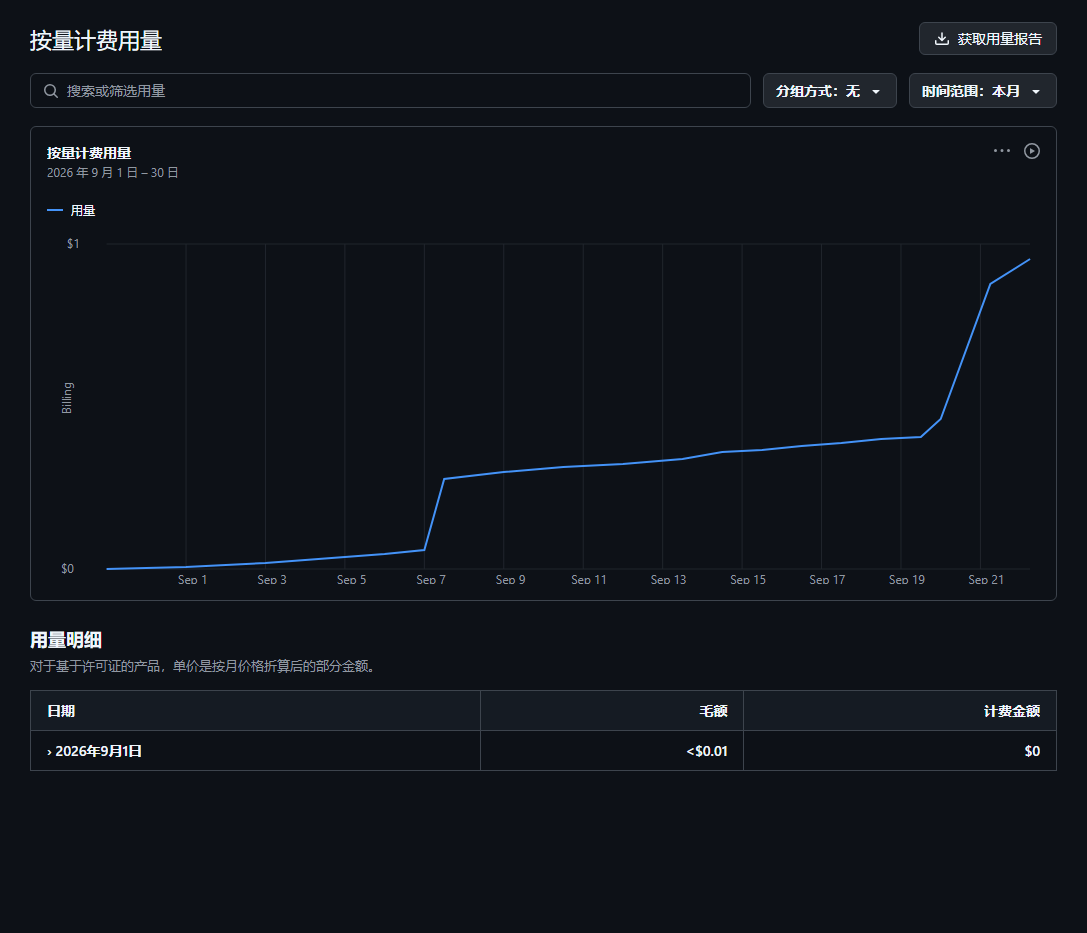
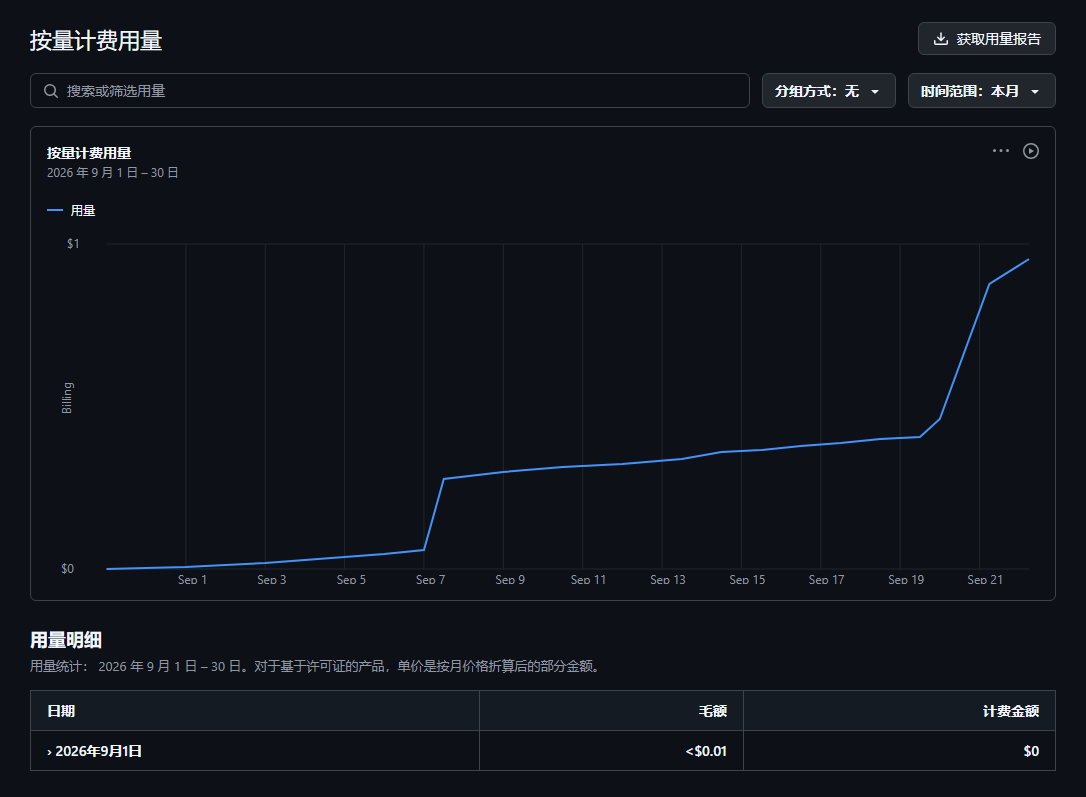
fix(dict): 收「Usage for」片段键，用量明细说明句不再半英半中
- 实机（截图）把说明句拆成「Usage for 」＋账期区间＋「For license-based products…」三段，整句键永不命中，故前缀片段必须单独收
- 译文用冒号收尾：中文里「用量统计：2026 年 9 月 1 日 – 30 日。」比保留尾随空格衔接更清楚（尾随空格会被 normalizeKey 折叠）
- 用例：新增 renderNodes 断言，锁住三段拼接后的整句渲染
- 文档：替换用量页对照图（说明句已是全中文）

diff --git a/src/content/__tests__/settings-billing.test.ts b/src/content/__tests__/settings-billing.test.ts
@@ -441,7 +441,9 @@ const USAGE_NODES: readonly string[] = [
 	//    静态词条「Metered usage」与 usage-range-same-month-* 规则覆盖，此处不重复列）——
 	"Usage",
 	// —— 用量明细区块 ——
+	// 说明句在实机里是三段：标签片段 + 账期区间 + 产品说明句（见下方 renderNodes 用例）
 	"Usage breakdown",
+	"Usage for",
 	"For license-based products, the price/unit is a prorated portion of the monthly price.",
 	"Date",
 	"Gross amount",
@@ -531,6 +533,27 @@ describe("用量页的实机节点边界", () => {
 				`不应被翻译：${JSON.stringify(raw)}`,
 			).toBeNull();
 		}
+	});
+
+	it("renders the usage breakdown blurb split around its date range", () => {
+		// 实机边界（截图实证）：说明句是「Usage for 」＋账期区间＋「For license-based
+		// products…」三段，整句键永不命中。片段键与区间规则都命中，整句才通顺
+		expect(
+			renderNodes([
+				"Usage for ",
+				"Sep 1 - Sep 30, 2026",
+				" ",
+				"For license-based products, the price/unit is a prorated portion of the monthly price.",
+			]),
+		).toBe(
+			// 实机节点自带尾随空格（「Usage for 」），walker 会把它保留在译文之后，
+			// 故这里如实写出那个空格；渲染结果读作「用量统计： 2026 年 9 月 1 日 – 30 日」
+			"用量统计： 2026 年 9 月 1 日 – 30 日 对于基于许可证的产品，单价是按月价格折算后的部分金额。",
+		);
+		// 标签片段去掉尾随空格也要命中（normalizeKey 折叠空白，实机形态可能两种都有）
+		expect(translateText("Usage for", usageView)).toBe(
+			"用量统计：",
+		);
 	});
 
 	it("keeps the Cancel button on the global dictionary", () => {
